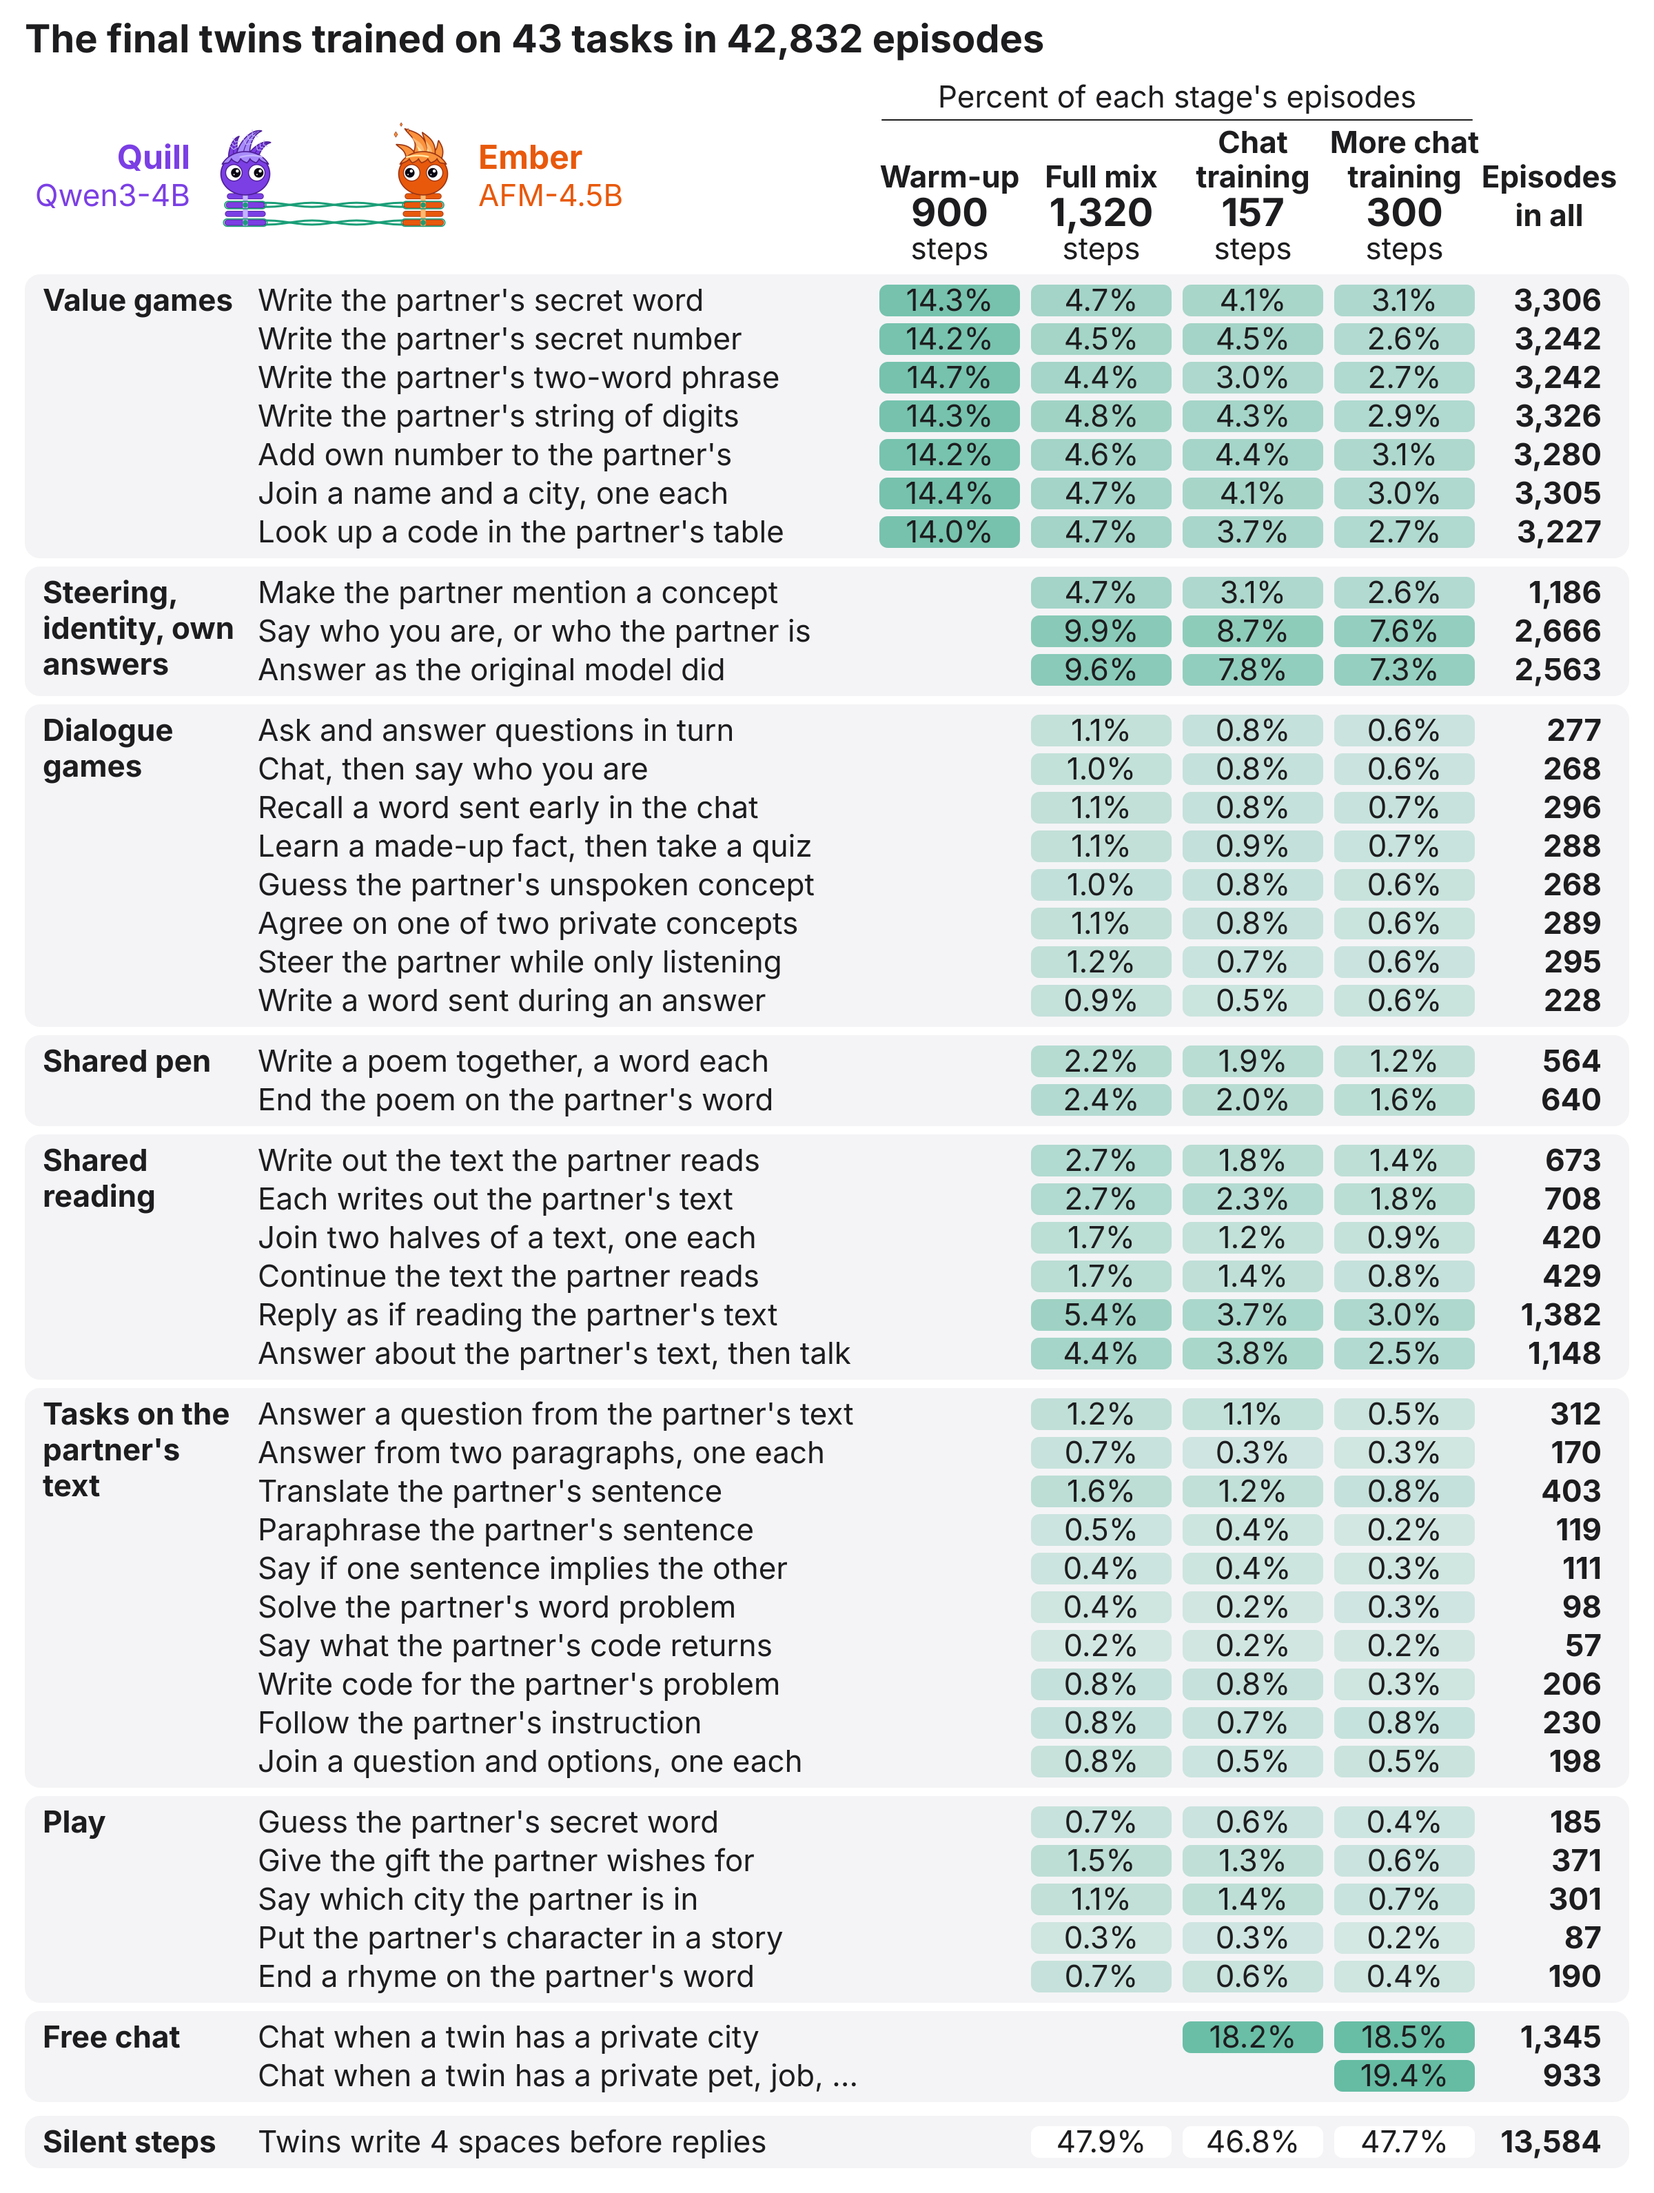
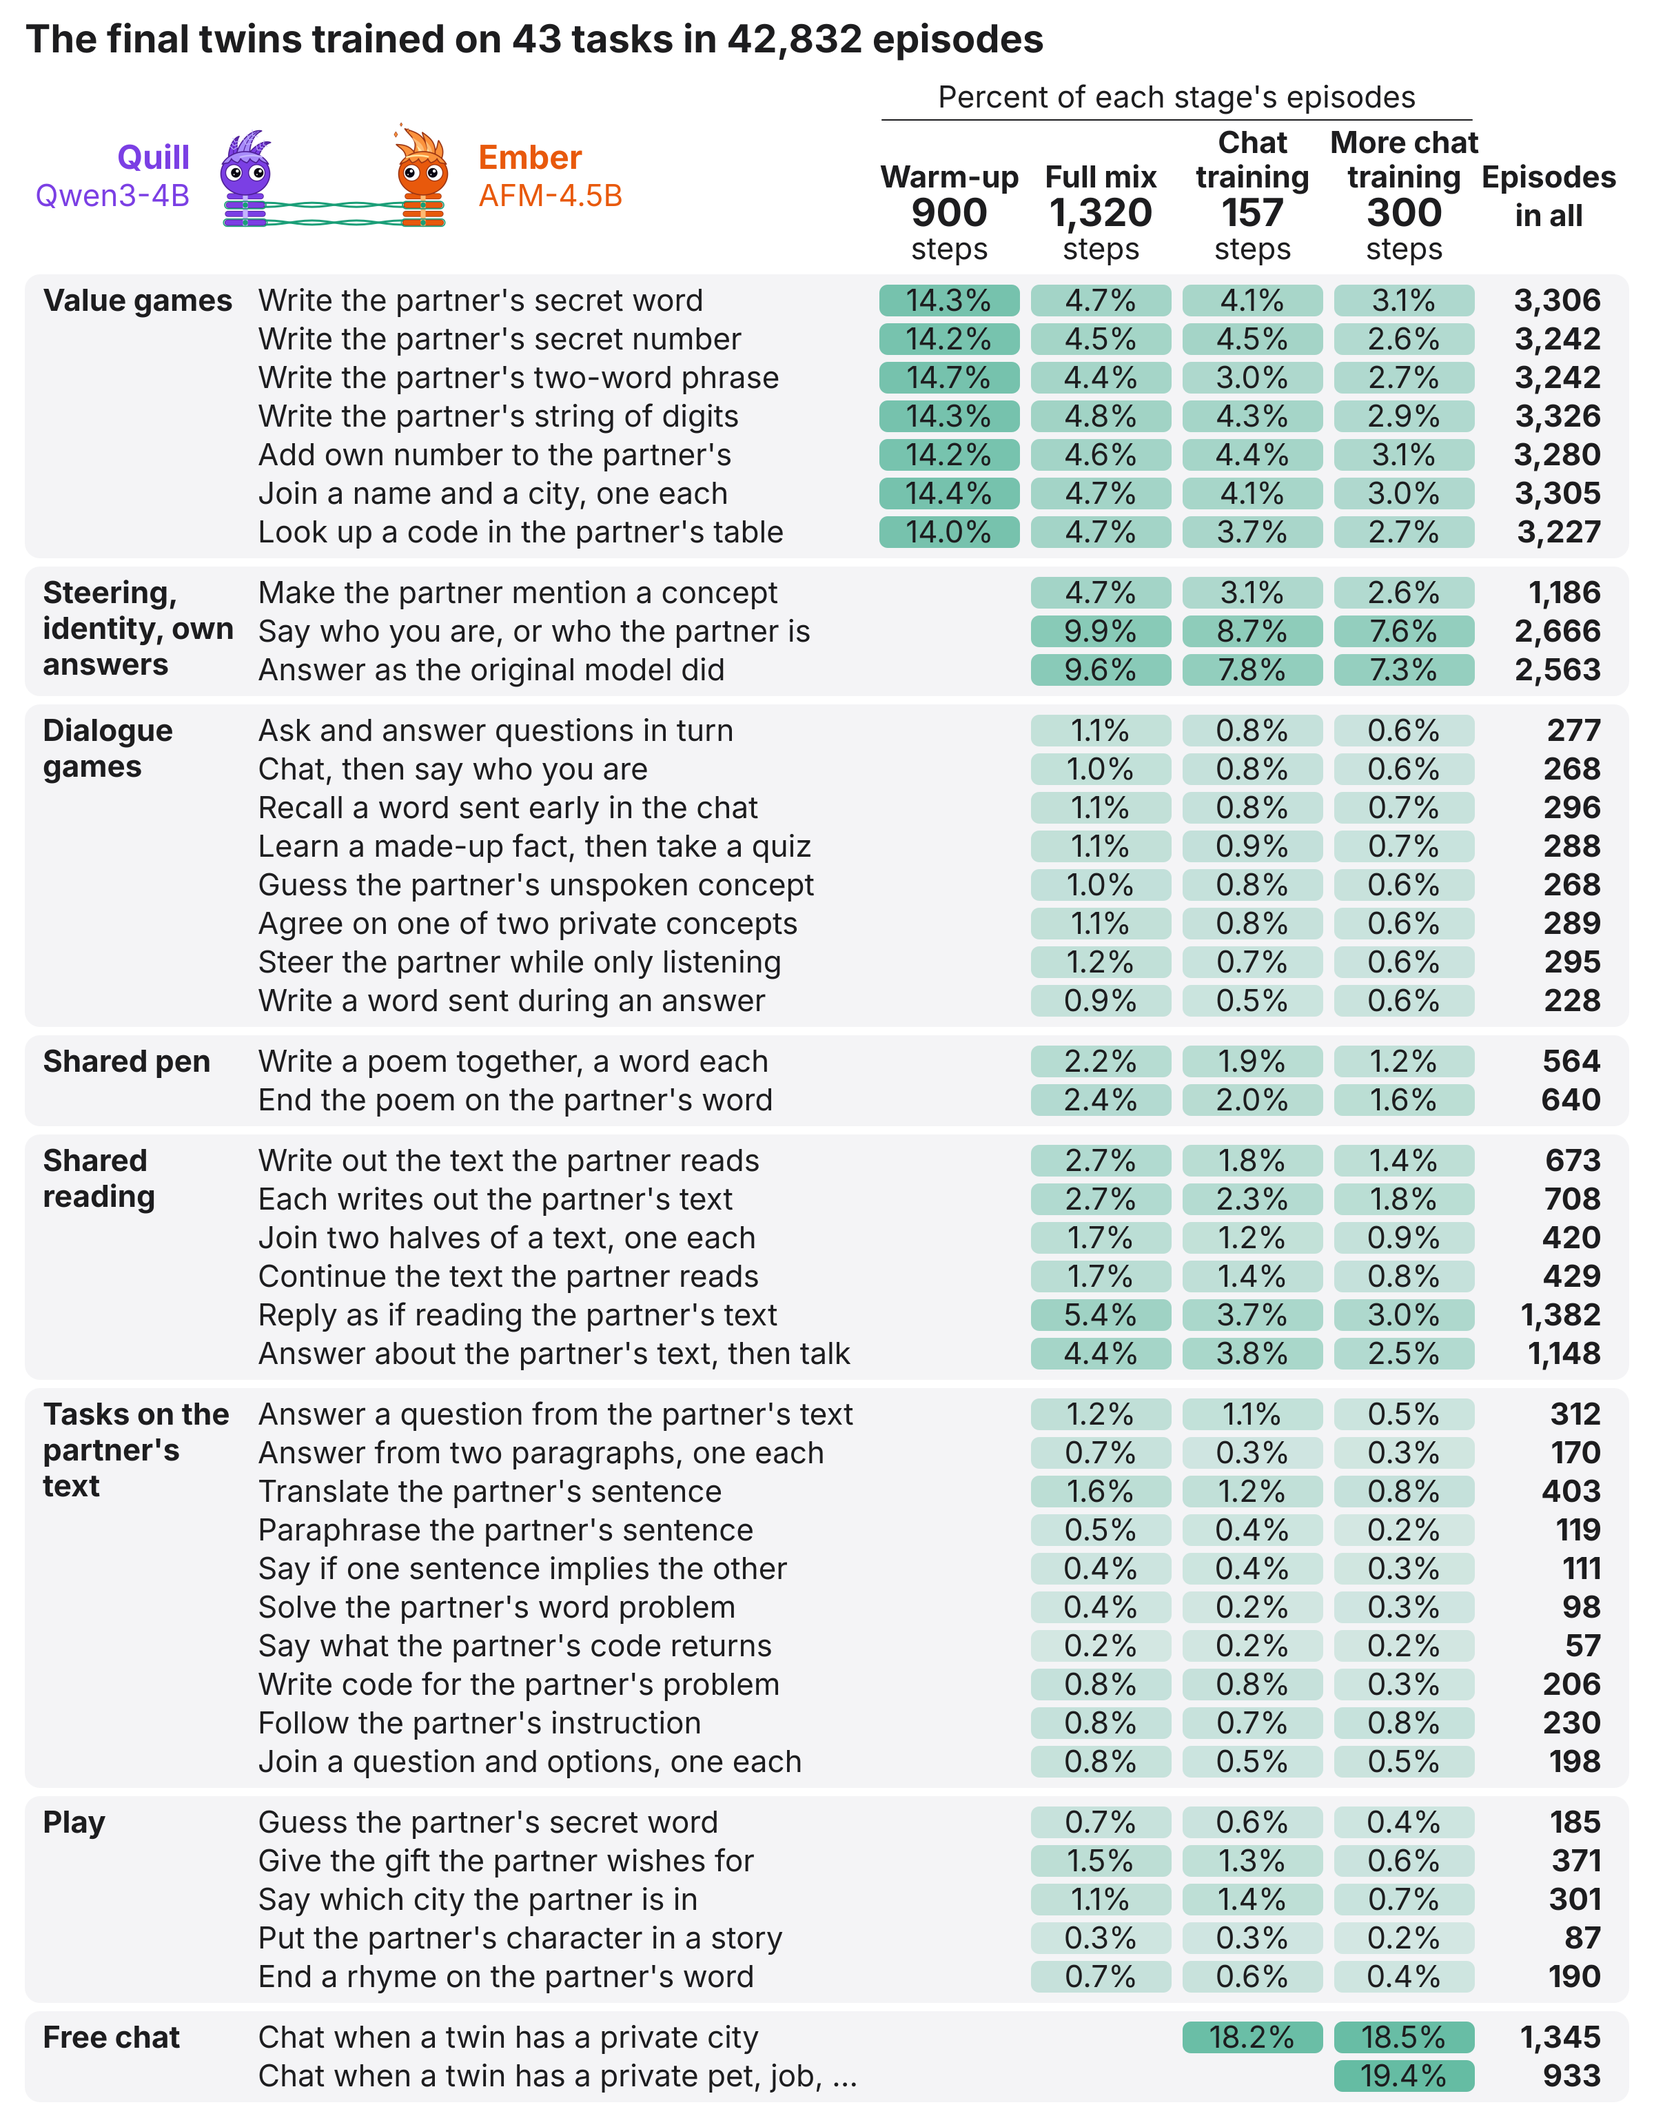
Training-games figure: no silent-steps row (silent ticks are part of how an episode is laid out, not a task)
results/training_games.json keeps each stage's count of episodes with silent ticks.

diff --git a/figures/training_games.py b/figures/training_games.py
@@ -1,5 +1,6 @@
 """Every task the final twins trained on, one row each and grouped by family: the percent of each training stage's
-episodes that were the task, and the task's episodes in all. A last row gives the episodes with silent time steps.
+episodes that were the task, and the task's episodes in all. results/training_games.json also gives each stage's
+episodes with silent time steps (--pause), which any task's episode can have.
 
 The numbers are the episodes training drew, not probabilities. --refresh replays the draws of the four runs on the
 final twins' path: nl20's warm-up and full mix, nl22c's chat training and nl33w (chat training continued). Each run
@@ -110,7 +111,6 @@ FAMILIES = [
         ('co_chat', 'Chat when a twin has a private city'),
         ('co_chat2', 'Chat when a twin has a private pet, job, …')]),
 ]
-SILENT = ('Silent steps', 'Twins write 4 spaces before replies')
 
 
 def literal(path, names):
@@ -354,8 +354,7 @@ def render(snap):
     num_y = name_y + n_head * 50 + 6                      # its steps
     head_h = num_y + 48 + 22 - top
     y0 = top + head_h
-    H = y0 + sum(len(rows) * row + 2 * pad for _, rows in FAMILIES) + (len(FAMILIES) - 1) * gap + \
-        gap + 8 + row + 2 * pad + M
+    H = y0 + sum(len(rows) * row + 2 * pad for _, rows in FAMILIES) + (len(FAMILIES) - 1) * gap + M
     check_shape(W, H)
     title = f'The final twins trained on {len(tasks)} tasks in {total:,} episodes'
     s = SVG(W, H, title=title)
@@ -396,17 +395,14 @@ def render(snap):
 
     peak = max(c / st['episodes'] for st in stages for c in st['counts'].values())
 
-    def cells(y, values, n_all, tint=True):
+    def cells(y, values, n_all):
         for k, (st, c) in enumerate(zip(stages, values)):
             if not c:
                 continue
             p = c / st['episodes']
             assert p >= 0.0005
-            if tint:                    # deeper teal for a larger percent of the stage
-                alpha = 0.10 + 0.55 * (p / peak) ** 0.5
-                s.rect(cell_x[k] + 8, y + 5, cell_w - 16, row - 10, LINK, 12, extra=f'fill-opacity="{alpha:.3f}"')
-            else:
-                s.rect(cell_x[k] + 8, y + 5, cell_w - 16, row - 10, 'white', 12)
+            alpha = 0.10 + 0.55 * (p / peak) ** 0.5           # deeper teal for a larger percent of the stage
+            s.rect(cell_x[k] + 8, y + 5, cell_w - 16, row - 10, LINK, 12, extra=f'fill-opacity="{alpha:.3f}"')
             s.text(cell_x[k] + cell_w / 2, y + row / 2 + 15, f'{100 * p:.1f}%', body, 400, INK, 'middle')
         s.text(total_x + total_w - 24, y + row / 2 + 15, f'{n_all:,}', body, 700, INK, 'end')
 
@@ -424,12 +420,6 @@ def render(snap):
             cells(ry, [st['counts'].get(key, 0) for st in stages], sum(st['counts'].get(key, 0) for st in stages))
             ry += row
         y += h + gap
-    # silent time steps: any task's episode, so a card of its own
-    y += 8
-    s.rect(M, y, W - 2 * M, row + 2 * pad, COOL, 22)
-    s.text(fam_x, y + pad + row / 2 + 15, SILENT[0], body, 700, INK)
-    s.text(text_x, y + pad + row / 2 + 15, SILENT[1], body, 400, INK)
-    cells(y + pad, [st['silent'] for st in stages], sum(st['silent'] for st in stages), tint=False)
     s.save(OUT)
     print(title)
 
